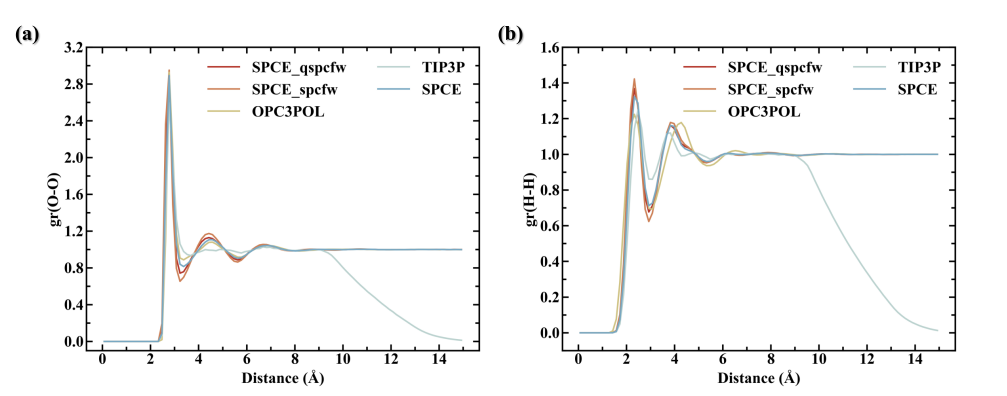
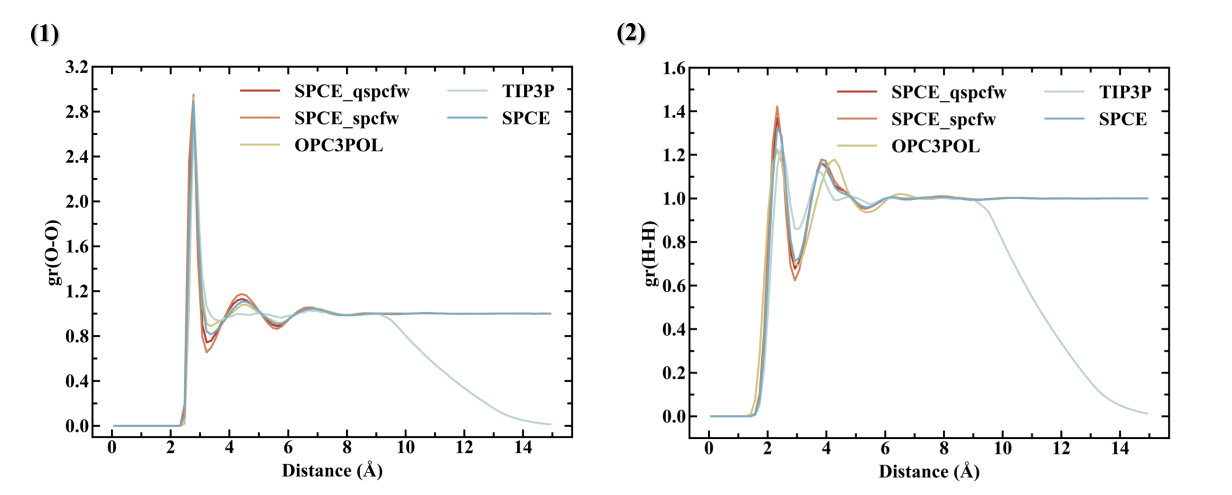
update

diff --git a/README.md b/README.md
@@ -7,4 +7,4 @@
 
 ## Radial distribution function of water
 ![](./example/gr/fig/gr.png)
-(a) RDF (OW-OW); (b) RDF (HW-HW)
+(1) RDF (OW-OW); (2) RDF (HW-HW)
